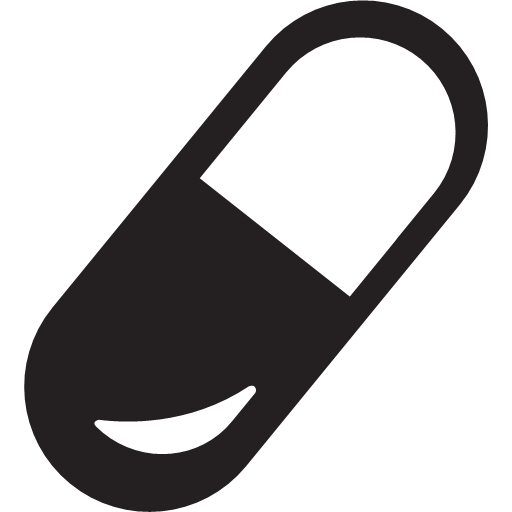
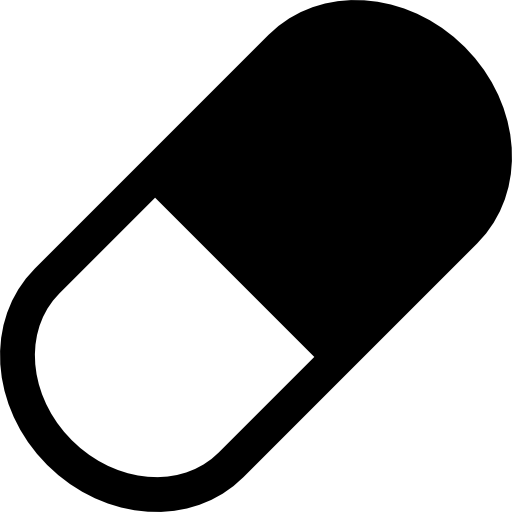
'body_running'

diff --git a/lib/UI/body.dart b/lib/UI/body.dart
@@ -1,4 +1,3 @@
-import 'package:curved_navigation_bar/curved_navigation_bar.dart';
 import 'package:flutter/material.dart';
 import 'package:online_doctor_booking/CONFIGURE/color_config.dart';
 import 'package:online_doctor_booking/UI/Appointments/appointment_body.dart';
@@ -19,7 +18,6 @@ class Body extends StatefulWidget {
 class _BodyState extends State<Body> {
 
   int _currentIndex = 0;
-  GlobalKey<CurvedNavigationBarState> _bottomNavigationKey = GlobalKey();
 
   final _page1 = GlobalKey<NavigatorState>();
   final _page2 = GlobalKey<NavigatorState>();
@@ -90,7 +88,7 @@ class _BodyState extends State<Body> {
           items: [
             //Home
             SalomonBottomBarItem(
-              icon: Icon(Icons.home),
+              icon: ImageIcon(AssetImage('assets/images/medicine.png')),
               title: Text("Medicine",style: bodyStyle,),
               selectedColor: colors,
             ),
@@ -104,7 +102,7 @@ class _BodyState extends State<Body> {
 
             //Cash
             SalomonBottomBarItem(
-              icon: Icon(Icons.money),
+              icon: Icon(Icons.local_hospital_outlined),
               title: Text("Hospitals",style: bodyStyle,),
               selectedColor: colors,
             ),
@@ -117,7 +115,7 @@ class _BodyState extends State<Body> {
             ),
 
             SalomonBottomBarItem(
-              icon: Icon(Icons.person_outline),
+              icon: Icon(Icons.more_outlined),
               title: Text("More",style: bodyStyle,),
               selectedColor: colors,
             ),

diff --git a/lib/main.dart b/lib/main.dart
@@ -23,9 +23,10 @@ class MyApp extends StatelessWidget {
         // or simply save your changes to "hot reload" in a Flutter IDE).
         // Notice that the counter didn't reset back to zero; the application
         // is not restarted.
-        primarySwatch: Colors.blue,
+        primarySwatch: Colors.teal,
       ),
       home: Body(),
+      debugShowCheckedModeBanner: false,
     );
   }
 }
